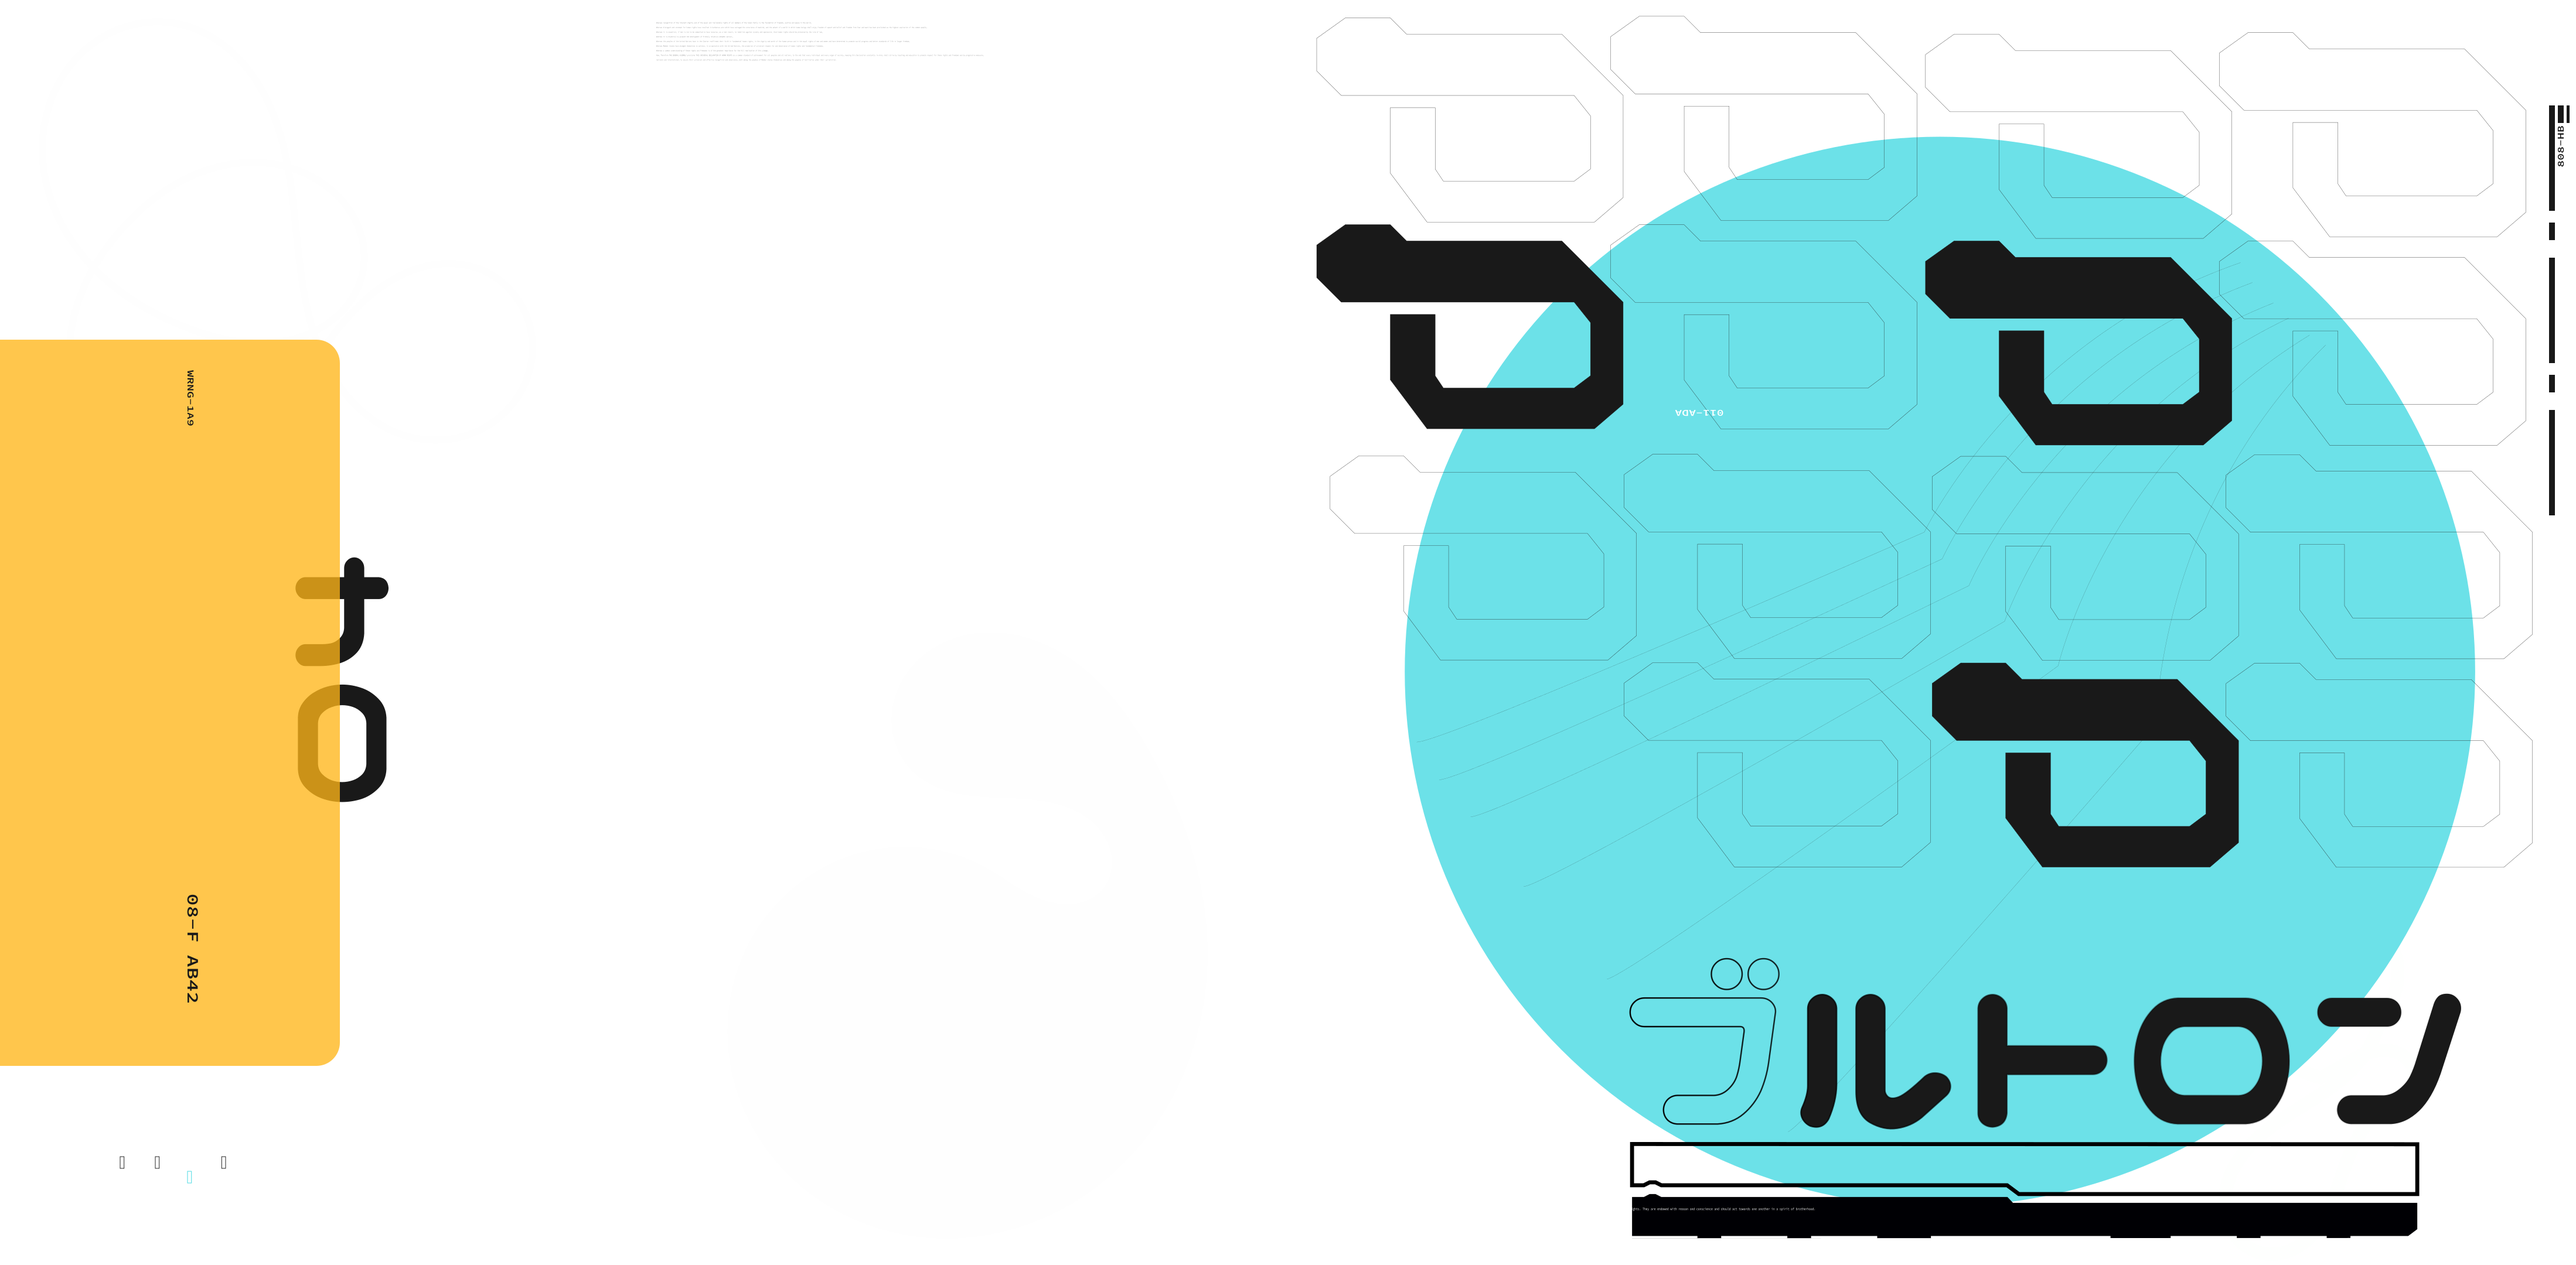
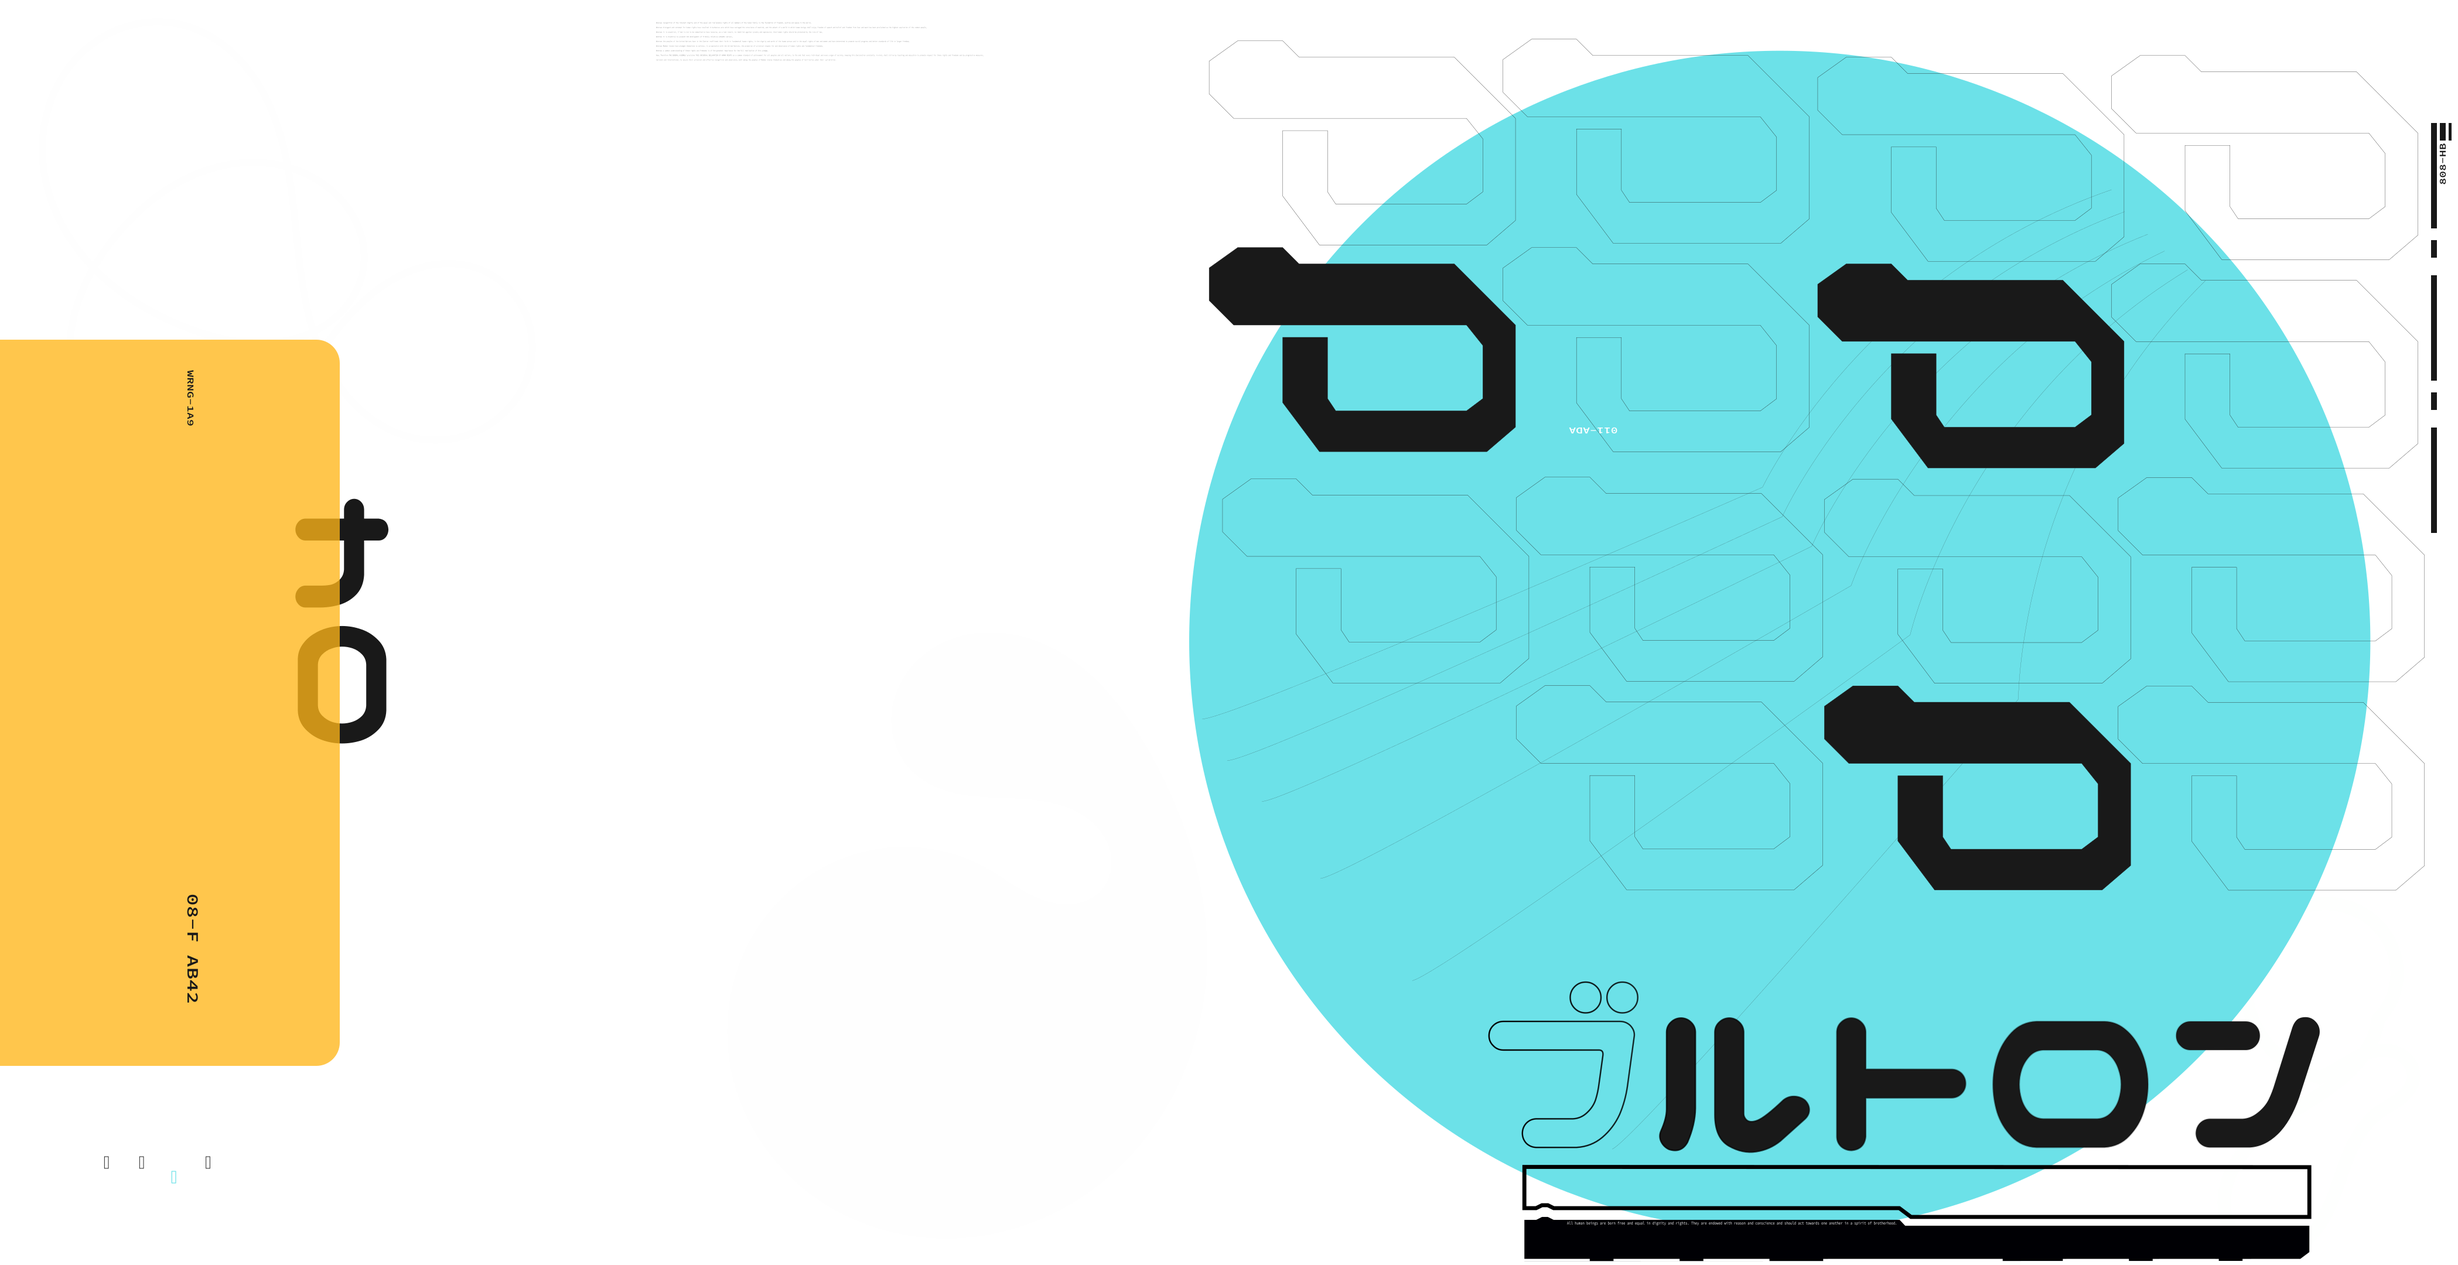
Layout stuff is driving me insane.

diff --git a/index.html b/index.html
@@ -12,8 +12,6 @@
 
     <!-- Fonts -->
     <link href="https://fonts.googleapis.com/css?family=VT323|Open+Sans" rel="stylesheet">
-    <link href="https://fonts.googleapis.com/earlyaccess/nicomoji.css" rel="stylesheet" />
-    <link href="https://fonts.googleapis.com/css?family=Do+Hyeon:400" rel="stylesheet">
     <!-- Bootstrap core CSS -->
     <link rel="stylesheet" href="https://maxcdn.bootstrapcdn.com/bootstrap/4.0.0-alpha.6/css/bootstrap.min.css" integrity="sha384-rwoIResjU2yc3z8GV/NPeZWAv56rSmLldC3R/AZzGRnGxQQKnKkoFVhFQhNUwEyJ" crossorigin="anonymous">
     <link rel="stylesheet" href="./css/power.css">

diff --git a/css/power.css b/css/power.css
@@ -9,7 +9,7 @@ html, body {
 body{
   /* Height and position and bottom here so that we
   can remove space from the bottom*/
-  height: 96%; width: 100%;
+  height: 99%; width: 100%;
   position: fixed;
   bottom: 0;
   background: url(../test.png);
